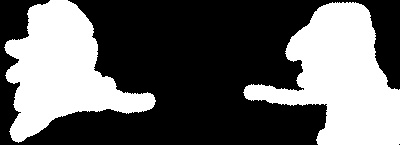
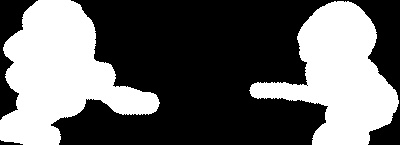
finish the main pie part

diff --git a/main.py b/main.py
@@ -2,30 +2,87 @@
 
 import cv2
 import numpy as np
+from scipy.sparse import lil_matrix, csc_matrix
+from scipy.sparse.linalg import spsolve
 import pie_utils
 
-def PIE_kernel(bkg: np.ndarray, bkg_mask: np.ndarray, 
-        src: np.ndarray, src_mask: np.ndarray):
+def PIE_kernel(bkg: np.ndarray, 
+        omega: np.ndarray, omega_set: set, pos2idx: dict, idx2pos: dict,
+        omega_bounder: np.ndarray, omega_bounder_set: set, 
+        src: np.ndarray, src_mask: np.ndarray, offset: tuple, f):
     ''' PIE algorithm, for 1 channel processing. '''
-    ...
+    A = np.zeros((len(omega_set), len(omega_set)))
+    A = lil_matrix(A)
+    b = np.zeros((len(omega_set), 1))
+    for i, (p_h, p_w) in enumerate(omega_set):
+        # each iteration is one `p`. pos at p_h, p_w, and matrix index at p_index
+        p_neighbors = pie_utils.get_neighbor(p_h, p_w, omega.shape[0], omega.shape[1])
+        ## first term in equation: 
+        p_index = pos2idx[(p_h, p_w)]
+        A[i, p_index] = len(p_neighbors)
+        ## second term in equation:
+        for (q_h, q_w) in omega_set.intersection(p_neighbors):
+            q_index = pos2idx[(q_h, q_w)]
+            A[i, q_index] = -1
+        ## rhs
+        rhs = 0
+        for (q_h, q_w) in omega_bounder_set.intersection(p_neighbors):
+            rhs += int(bkg[q_h, q_w])
+        for (q_h, q_w) in p_neighbors:
+            rhs += pie_utils.guide_vec(p_h, p_w, q_h, q_w, bkg, src, offset)
+        b[i, 0] = rhs
+    print('construct finished!')
+    # x = np.linalg.solve(A, b)
+    x = spsolve(csc_matrix(A), b)
+    print(x.shape)
+    np.save(f, x)
+    # x = np.load(f)
+    # x = (x - x.min()) / (x.max() - x.min()) * 255
+    x = np.maximum(x, 0)
+    x = np.minimum(x, 255)
+    for i in range(len(x)):
+        pos = idx2pos[i]
+        bkg[pos[0], pos[1]] = np.uint8(x[i])
+    # cv2.imshow('output', bkg)
+    # cv2.waitKey(0)
+    return bkg
 
-def PIE(bkg: np.ndarray, src: np.ndarray, src_mask: np.ndarray, offset: tuple):
+def PIE(bkg: np.ndarray, src: np.ndarray, src_mask: np.ndarray, offset: tuple, save_fname: str):
     ''' PIE algorithm that make `src` on `bkg`, with `offset` in the `bkg` image '''
     assert( len(offset) == 2 )
 
+    ## Omega: the background mask (matrix form)
     Omega = np.zeros(bkg.shape[0: 2])     # backgrounding mask, As known as `\Omega`. 
     src_mask = np.where(src_mask > 128, 1, 0)  # changing src_mask to binary form
-    Omega[offset[1]: offset[1]+src_mask.shape[0], offset[0]: offset[0]+src_mask.shape[1]] = src_mask
-    Omega_bounder = pie_utils.get_bounder(Omega)
+    Omega[offset[0]: offset[0]+src_mask.shape[0], 
+            offset[1]: offset[1]+src_mask.shape[1]] = src_mask
+    ## Omega_set: the background mask's index (set form)
+    Omega_set, pos2idx, idx2pos = pie_utils.omegamask_to_set(Omega)
+    ## Omega_bounder, Omega_bounder_set: the bounder (`\pratial \Omega`), 2 forms
+    Omega_bounder, Omega_bounder_set = pie_utils.get_bounder(Omega)
+    print(len(Omega_set))
+    print(len(Omega_bounder_set))
+    x = PIE_kernel(bkg[:, :, 0], Omega, Omega_set, pos2idx, idx2pos, 
+            Omega_bounder, Omega_bounder_set, src[:, :, 0], src_mask, offset, 'x.npy')
+    y = PIE_kernel(bkg[:, :, 1], Omega, Omega_set, pos2idx, idx2pos, 
+            Omega_bounder, Omega_bounder_set, src[:, :, 1], src_mask, offset, 'y.npy')
+    z = PIE_kernel(bkg[:, :, 2], Omega, Omega_set, pos2idx, idx2pos, 
+            Omega_bounder, Omega_bounder_set, src[:, :, 2], src_mask, offset, 'z.npy')
+    img = np.stack((x, y, z), axis = 2)
+    print(img.shape)
 
+    # print(np.sum(Omega_bounder))
+    # print(len(Omega_bounder_set))
     # print(np.max(Omega))
     # print(np.min(Omega))
     # cv2.imshow('temp', Omega)
     # cv2.waitKey(0)
     print(np.max(Omega_bounder))
     print(np.min(Omega_bounder))
-    cv2.imshow('temp', Omega_bounder)
+    cv2.imshow('temp', img)
+    # cv2.imshow('temp', Omega_bounder)
     cv2.waitKey(0)
+    cv2.imwrite(save_fname, img)
     return ...
 
 bkg_img = cv2.imread('imgs/1_bkg.jpg')
@@ -33,4 +90,10 @@ src_img = cv2.imread('imgs/1_src1.jpg')
 src_mask = cv2.imread('imgs/1_src1_mask.jpg', 0)
 print(src_img.shape)
 print(src_mask.shape)
-PIE(bkg_img, src_img, src_mask, (100, 100))
+PIE(bkg_img, src_img, src_mask, (400, 100), 'imgs/1_finala.jpg')
+
+bkg_img = cv2.imread('imgs/1_finala.jpg')
+src_img = cv2.imread('imgs/1_src2.jpg')
+src_mask = cv2.imread('imgs/1_src2_mask.jpg', 0)
+
+PIE(bkg_img, src_img, src_mask, (100, 100), 'imgs/1_final.jpg')

diff --git a/pie_utils.py b/pie_utils.py
@@ -2,42 +2,80 @@
 
 import numpy as np
 import cv2
+from typing import Tuple
 
-def get_neighbor(x, y, w, h) -> np.ndarray:
-    ''' Returns the neighbor index array of given point (x, y) '''
-    res = np.array([[x-1, y], [x+1, y], [x, y-1], [x, y+1]])
-    valid = np.array([True] * 4)
-    if x <= 0:
-        valid[0] = False
-    elif x >= w-1:
-        valid[1] = False
-    if y <= 0:
-        valid[2] = False
-    elif y >= h-1:
-        valid[3] = False
-    return res[valid]
+def get_neighbor(h, w, max_h, max_w) -> set:
+    ''' Returns the neighbor index array of given point (h, w) '''
+    res = [(h-1, w), (h+1, w), (h, w-1), (h, w+1)]
+    valid = [True] * 4
+    if h <= 0:      valid[0] = False
+    elif h >= max_w-1:  valid[1] = False
+    if w <= 0:      valid[2] = False
+    elif w >= max_h-1:  valid[3] = False
+    retval = set()
+    for i in range(4):
+        if valid[i]:
+            retval.add(res[i])
+    return retval
 
 def get_bounder(omega: np.ndarray) -> np.ndarray:
     ''' Get the bounder over a region `omega`. '''
     bounder = np.zeros(omega.shape[0:2])
+    bounder_set = set()
     for h in range(omega.shape[0]):
         for w in range(omega.shape[1]):
             if omega[h, w] == 1:
                 continue
-            neighbors = get_neighbor(w, h, omega.shape[1], omega.shape[0])
+            neighbors = get_neighbor(h, w, omega.shape[1], omega.shape[0])
             for neighbor in neighbors:
-                if omega[neighbor[1], neighbor[0]] == 1:
+                if omega[neighbor[0], neighbor[1]] == 1:
                     bounder[h, w] = 1
+                    bounder_set.add((h, w))
                     break
-    return bounder
+    return bounder, bounder_set
+
+def omegamask_to_set(mask: np.ndarray) -> Tuple[set, dict]:
+    ''' Return a set contains all index pairs of the mask. '''
+    result = set()
+    pos2idx = dict()
+    idx2pos = dict()
+    count = 0
+    for h in range(mask.shape[0]):
+        for w in range(mask.shape[1]):
+            if mask[h, w] == 1:
+                result.add((h, w))
+                pos2idx[(h, w)] = count
+                idx2pos[count] = (h, w)
+                count += 1
+    return result, pos2idx, idx2pos
+
+def guide_vec(p_h: int, p_w: int, q_h: int, q_w: int, 
+        bkg: np.ndarray, src: np.ndarray, offset: tuple) -> int:
+    ''' A function that gives guide `v_{pq}` '''
+    assert(abs(p_h-q_h) <= 1)
+    assert(abs(p_w-q_w) <= 1)
+    src_p_h = p_h - offset[0]
+    src_p_w = p_w - offset[1]
+    src_q_h = q_h - offset[0]
+    src_q_w = q_w - offset[1]
+    try:
+        int(src[src_p_h, src_p_w]) - int(src[src_q_h, src_q_w])
+    except:
+        return int(bkg[p_h, p_w]) - int(bkg[q_h, q_w])
+    else:
+        if (abs(int(bkg[p_h, p_w]) - int(bkg[q_h, q_w])) > 
+                abs(int(src[src_p_h, src_p_w]) - int(src[src_q_h, src_q_w]))):
+            return int(bkg[p_h, p_w]) - int(bkg[q_h, q_w])
+        else:
+            return int(src[src_p_h, src_p_w]) - int(src[src_q_h, src_q_w])
 
 # testing
-print(get_neighbor(10, 10, 20, 20)) # middle
-print(get_neighbor(0, 0, 20, 20))   # left top
-print(get_neighbor(19, 0, 20, 20))  # right top
-print(get_neighbor(0, 19, 20, 20))  # left bottom
-print(get_neighbor(19, 19, 20, 20)) # right bottom
-print(get_neighbor(10, 0, 20, 20))  # top edge
-print(get_neighbor(10, 19, 20, 20)) # bottom edge
-print(get_neighbor(0, 10, 20, 20))  # left edge
-print(get_neighbor(19, 10, 20, 20)) # right edge
+# print(get_neighbor(10, 10, 20, 20)) # middle
+# print(get_neighbor(0, 0, 20, 20))   # left top
+# print(get_neighbor(19, 0, 20, 20))  # right top
+# print(get_neighbor(0, 19, 20, 20))  # left bottom
+# print(get_neighbor(19, 19, 20, 20)) # right bottom
+# print(get_neighbor(10, 0, 20, 20))  # top edge
+# print(get_neighbor(10, 19, 20, 20)) # bottom edge
+# print(get_neighbor(0, 10, 20, 20))  # left edge
+# print(get_neighbor(19, 10, 20, 20)) # right edge

diff --git a/preprocess_utils.py b/preprocess_utils.py
@@ -37,7 +37,7 @@ def generate_mask(in_fname: str) -> None:
         if event == cv2.EVENT_MOUSEMOVE and flags == cv2.EVENT_FLAG_LBUTTON:
             cv2.circle(mask, (x, y), 8, (255, 255, 255), -1)
             cv2.circle(img, (x, y), 8, (255, 255, 255), -1)
-            print(x, y)
+            # print(x, y)
         elif event == cv2.EVENT_LBUTTONUP:
             cv2.destroyWindow('mask gen')
             cv2.namedWindow('mask gen')
@@ -62,4 +62,4 @@ def generate_mask(in_fname: str) -> None:
 
 # USE samples:
 # rescale('imgs/1_original_src1.jpg', 'imgs/1_src1.jpg', (100, 400), 1)
-generate_mask('imgs/1_src2.jpg')
+generate_mask('imgs/1_src1.jpg')
